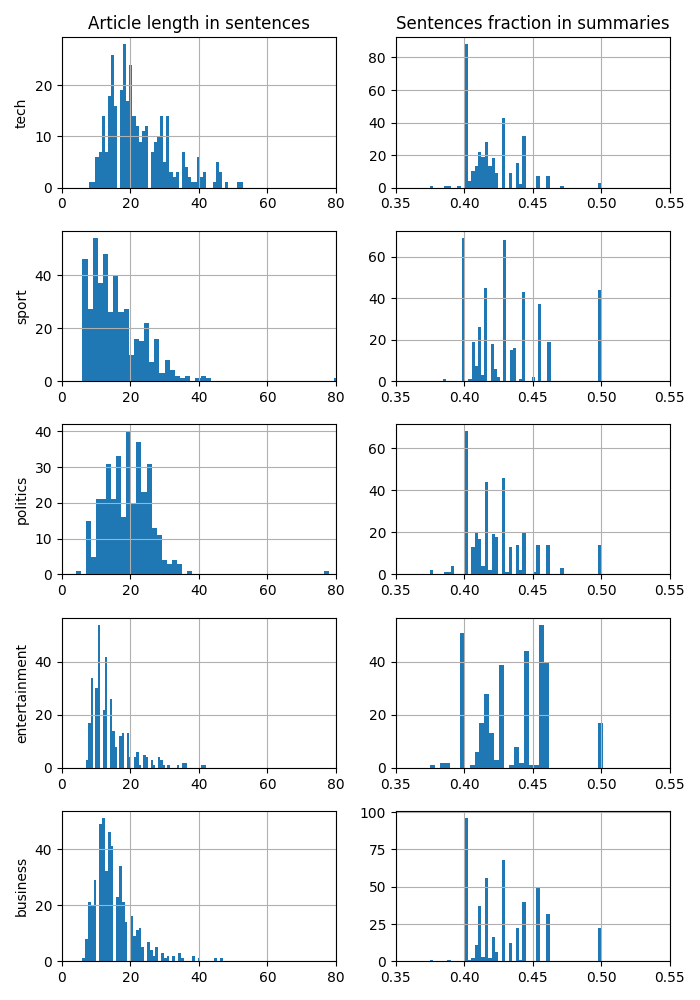
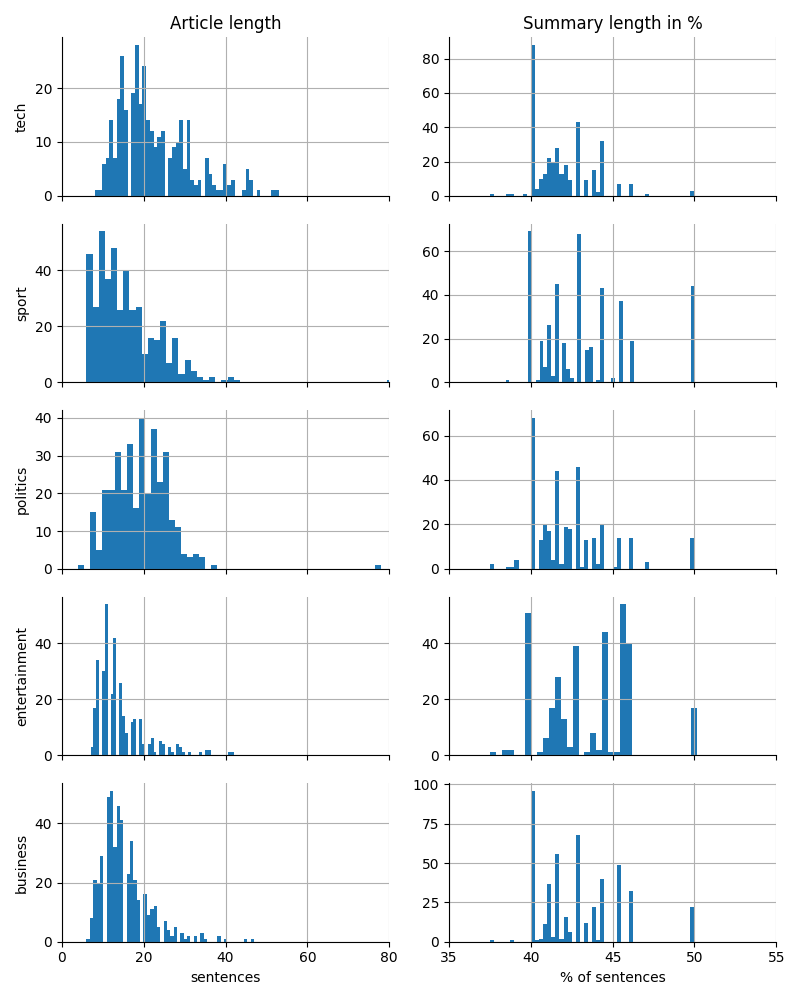
fix histogram

diff --git a/histogram.py b/histogram.py
@@ -6,9 +6,11 @@ import pandas as pd
 import numpy as np
 subjects = ['tech', 'sport', 'politics', 'entertainment', 'business']
 
-fig, ax = plt.subplots(5,2,figsize=(7,10))
-ax[0,0].set_title('Article length in sentences')
-ax[0,1].set_title('Sentences fraction in summaries')
+fig, ax = plt.subplots(5,2,figsize=(8,10), sharex='col', )
+ax[0,0].set_title('Article length')
+ax[0,1].set_title('Summary length in %')
+ax[-1,0].set_xlabel('sentences')
+ax[-1,1].set_xlabel('% of sentences')
 
 for s_id, subject in enumerate(subjects):
 
@@ -26,14 +28,18 @@ for s_id, subject in enumerate(subjects):
         c = len(data.index)
         counts.append(c)
 
-        i = np.sum(data.Label == 1)/c
+        i = 100*np.sum(data.Label == 1)/c
         ir.append(i)
 
     ax[s_id,0].hist(counts, bins=50)
     ax[s_id,0].set_xlim(0, 80)
+    ax[s_id,0].spines[['top', 'right']].set_visible(False)
+
 
     ax[s_id,1].hist(ir, bins=50)
-    ax[s_id,1].set_xlim(0.35, 0.55)
+    ax[s_id,1].set_xlim(35, 55)
+    ax[s_id,1].spines[['top', 'right']].set_visible(False)
+
 
     ax[s_id,0].grid()
     ax[s_id,1].grid()
